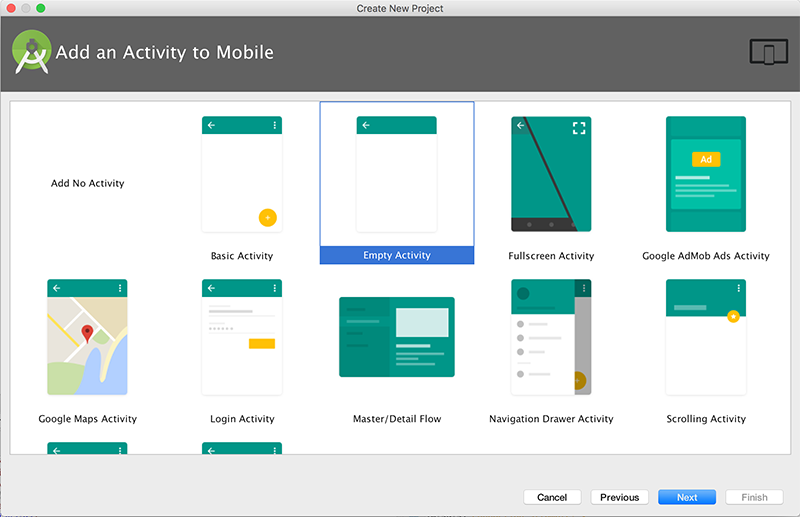
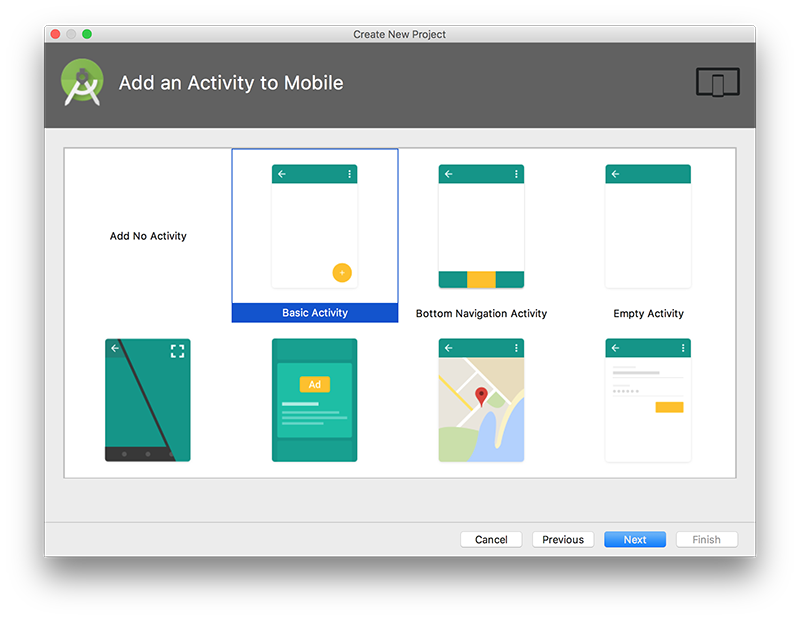
MB Updates to Lab 01 for Android Studio 3.0

diff --git a/topic01-overview-and-tools/book-a-lab-01/index.html b/topic01-overview-and-tools/book-a-lab-01/index.html
@@ -181,7 +181,7 @@ body
       
       <div  class="ui tab segment lab" data-tab="Lab-01">
         <h1>Objectives</h1>
-<p>Here we discuss how to install and set up effective tools for Android application development. These include the Android Studio IDE  + an emulator. We&#39;ll also create a simple Android App <b>(HelloWorld)</b>, and be able to manage it within the Android Studio environment. It&#39;s pretty basic, but it will give you some idea of how to use some of the most common &#39;widgets&#39; available and also implement some basic event handling - which will all come in useful over the course of the module.</p>
+<p>Here we discuss how to install and set up effective tools for Android application development. These include the Android Studio IDE  + an emulator. We&#39;ll also create a simple Android App (HelloWorld), and be able to manage it within the Android Studio environment.</p>
 
       </div>
      
@@ -223,6 +223,10 @@ body
 <p><img src="img/new04.png" alt="Figure 5: Change default settings to HelloWorldActivity in Customize the Activity screen"></p>
 <p>After you press &quot;Finish&quot;, you should now have something similar to the following:</p>
 <p><img src="img/new05.png" alt="Figure 6: Project open in Layout View"></p>
+<p>NOTE : if your project fails to build correctly, you may have a Gradle error like below</p>
+<p><img src="img/error1.png" alt="Figure 6.1: Gradle Build Error in Project"></p>
+<p>To fix this, you need to open your <b>Module</b> (NOT Project) build.gradle file and change the build version from 26.1.0 to 26.0.2, as below</p>
+<p><img src="img/error2.png" alt="Figure 6.2: FIX for Gradle Build Error in Project"></p>
 <p>Next, as an exercise, select File-&gt;Close Project, to close the project so we can import it again.</p>
 <p>If no other Projects are open you will be displayed with</p>
 <p><img src="img/new06.png" alt="Figure 7: Open Existing Project"></p>
@@ -254,29 +258,32 @@ body
 <p><img src="img/lab01.png" alt="Figure 1: Completed App running in Emulator"></p>
 <p>If you&#39;ve deleted your HelloWorld Project, launch Android Studio (if it&#39;s not already open) and create a new Android Project called <b>HelloWorld</b> similar to what you did in Step 02.</p>
 <p>If you haven&#39;t deleted the project, you can just continue on.</p>
-<p>Name your package &#39;ie.wit&#39; (like you did before). Choose an Empty Activity again and rename as before. It&#39;s recommended you select <b>Android 5.0</b> as the launch target platform (but any target will suffice for this particular lab). It&#39;s also probably a good idea to run the App at this stage, so you can set up your Virtual Device (if you haven&#39;t done so already).</p>
+<p>Name your package &#39;ie.wit&#39; (like you did before). Choose a <b>Basic</b> Activity and rename as before. It&#39;s recommended you select <b>Android 6.0</b> as the launch target platform (but any target will suffice for this particular lab). It&#39;s also probably a good idea to run the App at this stage, so you can set up your Virtual Device (if you haven&#39;t done so already).</p>
 <p>Edit your &quot;strings.xml&quot; file (in your res folder) and add the following &quot;resources&quot; - be careful if you have created an app which contains a &#39;menu&#39; folder, this also includes associated resources, so don&#39;t overwrite those resources, just add our ones at the end.</p>
 <pre><code>    &lt;string name=&quot;window_text&quot;&gt;Press the button below to receive a friendly greeting from Android.&lt;/string&gt;
     &lt;string name=&quot;button_label&quot;&gt;Show Greeting&lt;/string&gt;
     &lt;string name=&quot;greeting_text&quot;&gt;Hello from Android!&lt;/string&gt;</code></pre>
-<p>Your completed strings.xml (without menus) should look like this</p>
+<p>Your completed strings.xml (with menu resources) should look like this</p>
 <pre><code>&lt;resources&gt;
     &lt;string name=&quot;app_name&quot;&gt;HelloWorld&lt;/string&gt;
+    &lt;string name=&quot;action_settings&quot;&gt;Settings&lt;/string&gt;
+
     &lt;string name=&quot;window_text&quot;&gt;Press the button below to receive a friendly greeting from Android.&lt;/string&gt;
     &lt;string name=&quot;button_label&quot;&gt;Show Greeting&lt;/string&gt;
-    &lt;string name=&quot;greeting_text&quot;&gt;Hello from Android!&lt;/string&gt;
-&lt;/resources&gt;</code></pre>
+    &lt;string name=&quot;greeting_text&quot;&gt;Hello from Android!&lt;/string&gt;</code></pre>
 <p>If you choose &quot;open editor&quot; you can see the graphical representation of the String resources you have set up (and edit them here if you need to).</p>
 <p><img src="img/lab02.png" alt="Figure 1: String resources in Translations Editor"></p>
-<p>Now, edit your <b>&quot;activity_hello_world.xml&quot;</b> in your <u><i><strong>layout</strong></i></u> folder and replace your <b>TextView</b> with the following - make sure your in &#39;Text&#39; view and not &#39;Design&#39; view window (so you can see the xml).</p>
+<p>Now, edit your &quot;content_hello_world.xml&quot; <b><u>NOT</u></b> your &quot;activity_hello_world.xml&quot; in your <u><i><strong>layout</strong></i></u> folder and replace your <b>TextView</b> with the following - make sure your in &#39;Text&#39; view and not &#39;Design&#39; view window (so you can see the xml).</p>
 <pre><code>&lt;TextView
         android:id=&quot;@+id/textView1&quot;
-        android:gravity=&quot;center&quot;
         android:layout_width=&quot;wrap_content&quot;
         android:layout_height=&quot;wrap_content&quot;
-        android:layout_marginTop=&quot;20dp&quot;
+        android:layout_marginTop=&quot;80dp&quot;
+        android:gravity=&quot;center&quot;
         android:text=&quot;@string/window_text&quot;
-        android:textAppearance=&quot;?android:attr/textAppearanceMedium&quot; /&gt;
+        android:textAppearance=&quot;?android:attr/textAppearanceMedium&quot;
+        app:layout_constraintStart_toStartOf=&quot;parent&quot;
+        app:layout_constraintTop_toTopOf=&quot;parent&quot; /&gt;
 
     &lt;Button
         android:id=&quot;@+id/greetingButton&quot;
@@ -284,25 +291,35 @@ body
         android:layout_height=&quot;wrap_content&quot;
         android:layout_alignParentBottom=&quot;true&quot;
         android:layout_centerHorizontal=&quot;true&quot;
-        android:layout_marginBottom=&quot;59dp&quot;
+        android:layout_marginBottom=&quot;170dp&quot;
         android:onClick=&quot;showGreeting&quot;
-        android:text=&quot;@string/button_label&quot; /&gt;</code></pre>
+        android:text=&quot;@string/button_label&quot;
+        app:layout_constraintBottom_toBottomOf=&quot;parent&quot;
+        app:layout_constraintEnd_toEndOf=&quot;parent&quot;
+        app:layout_constraintStart_toStartOf=&quot;parent&quot; /&gt;</code></pre>
 <p>This will give you the following layout (once you select &#39;Design View&#39; again):</p>
 <p><img src="img/lab03.png" alt="Figure 3: Updated Activity Layout with TextView and Button widgets"></p>
+<p>Note how the widgets are &#39;anchored&#39; to the layout border - this ensures that our button and textview display correctly on the layout at runtime.</p>
+<p><img src="img/anchored.png" alt="Figure 4: Anchored TextView and Button widgets"></p>
 <p>Once again, it&#39;s worth running the app at this point to confirm everything is displayed the way we want it. If you click the button, your app will probably crash - we don&#39;t have our <b>showGreeting()</b> method implemented yet.</p>
 <p>So, the last thing we need to do is add in our event handling code so that a short message is displayed when the user presses the &#39;Show Greeting&#39; button.</p>
-<p>Firstly, open up the <strong>HelloWorldActivity.java</strong> source file and add the following method</p>
+<p>Firstly, open up the <strong>HelloWorldActivity.java</strong> source file and add the following method <b>BEFORE</b> the last closing brace</p>
 <pre><code>public void showGreeting(View v) {
         String greetingText = getString(R.string.greeting_text);
         Toast.makeText(this, greetingText, Toast.LENGTH_LONG).show();
     }</code></pre>
 <p>You&#39;ll get a few compiler errors due to missing imports, so try and fix those.</p>
-<p>Note that we have no need for some kind of Listener interface (ala swing development) - our event handling is taken care of via the <strong><em>onClick</em></strong> attribute in our xml layout, here&#39;s what your completed <strong>HelloWorldActivity</strong> class should look like.</p>
+<p>Note that we have no need for some kind of Listener interface (ala swing development) - our event handling is taken care of via the <strong><em>onClick</em></strong> attribute in our xml layout, here&#39;s what your completed <strong>HelloWorldActivity</strong> class should look like, including Floating Action Button and Menu support.</p>
 <pre><code>package ie.wit.helloworld;
 
 import android.os.Bundle;
+import android.support.design.widget.FloatingActionButton;
+import android.support.design.widget.Snackbar;
 import android.support.v7.app.AppCompatActivity;
+import android.support.v7.widget.Toolbar;
 import android.view.View;
+import android.view.Menu;
+import android.view.MenuItem;
 import android.widget.Toast;
 
 public class HelloWorldActivity extends AppCompatActivity {
@@ -311,15 +328,49 @@ public class HelloWorldActivity extends AppCompatActivity {
     protected void onCreate(Bundle savedInstanceState) {
         super.onCreate(savedInstanceState);
         setContentView(R.layout.activity_hello_world);
+        Toolbar toolbar = (Toolbar) findViewById(R.id.toolbar);
+        setSupportActionBar(toolbar);
+
+        FloatingActionButton fab = (FloatingActionButton) findViewById(R.id.fab);
+        fab.setOnClickListener(new View.OnClickListener() {
+            @Override
+            public void onClick(View view) {
+                Snackbar.make(view, &quot;Replace with your own action&quot;, Snackbar.LENGTH_LONG)
+                        .setAction(&quot;Action&quot;, null).show();
+            }
+        });
+    }
+
+    @Override
+    public boolean onCreateOptionsMenu(Menu menu) {
+        // Inflate the menu; this adds items to the action bar if it is present.
+        getMenuInflater().inflate(R.menu.menu_hello_world, menu);
+        return true;
+    }
+
+    @Override
+    public boolean onOptionsItemSelected(MenuItem item) {
+        // Handle action bar item clicks here. The action bar will
+        // automatically handle clicks on the Home/Up button, so long
+        // as you specify a parent activity in AndroidManifest.xml.
+        int id = item.getItemId();
+
+        //noinspection SimplifiableIfStatement
+        if (id == R.id.action_settings) {
+            return true;
+        }
+
+        return super.onOptionsItemSelected(item);
     }
 
     public void showGreeting(View v) {
         String greetingText = getString(R.string.greeting_text);
         Toast.makeText(this, greetingText, Toast.LENGTH_LONG).show();
     }
+
 }</code></pre>
 <p>So when you run your app again you should see something like this when you click the &#39;Show Greeting&#39; button.</p>
-<p><img src="img/lab04.png" alt="Figure 4: Completed App running in Emulator with Button clicked"></p>
+<p><img src="img/lab04.png" alt="Figure 5: Completed App running in Emulator with Button clicked"></p>
 <p>We will investigate this code more closely in the lectures.</p>
 
       </div>

diff --git a/labwall.html b/labwall.html
@@ -184,7 +184,7 @@ figcaption
 
   <div class="center aligned content">
     <div class="description">
-      <p>Here we discuss how to install and set up effective tools for Android application development. These include the Android Studio IDE  + an emulator. We&#39;ll also create a simple Android App <b>(HelloWorld)</b>, and be able to manage it within the Android Studio environment. It&#39;s pretty basic, but it will give you some idea of how to use some of the most common &#39;widgets&#39; available and also implement some basic event handling - which will all come in useful over the course of the module.</p>
+      <p>Here we discuss how to install and set up effective tools for Android application development. These include the Android Studio IDE  + an emulator. We&#39;ll also create a simple Android App (HelloWorld), and be able to manage it within the Android Studio environment.</p>
 
     </div>
   </div>

diff --git a/topic01-overview-and-tools/index.html b/topic01-overview-and-tools/index.html
@@ -345,7 +345,7 @@ figcaption
 
   <div class="center aligned content">
     <div class="description">
-      <p>Here we discuss how to install and set up effective tools for Android application development. These include the Android Studio IDE  + an emulator. We&#39;ll also create a simple Android App <b>(HelloWorld)</b>, and be able to manage it within the Android Studio environment. It&#39;s pretty basic, but it will give you some idea of how to use some of the most common &#39;widgets&#39; available and also implement some basic event handling - which will all come in useful over the course of the module.</p>
+      <p>Here we discuss how to install and set up effective tools for Android application development. These include the Android Studio IDE  + an emulator. We&#39;ll also create a simple Android App (HelloWorld), and be able to manage it within the Android Studio environment.</p>
 
     </div>
   </div>

diff --git a/topic01-overview-and-tools/indexmoodle.html b/topic01-overview-and-tools/indexmoodle.html
@@ -134,7 +134,7 @@ figcaption
 
   <div class="center aligned content">
     <div class="description">
-      <p>Here we discuss how to install and set up effective tools for Android application development. These include the Android Studio IDE  + an emulator. We&#39;ll also create a simple Android App <b>(HelloWorld)</b>, and be able to manage it within the Android Studio environment. It&#39;s pretty basic, but it will give you some idea of how to use some of the most common &#39;widgets&#39; available and also implement some basic event handling - which will all come in useful over the course of the module.</p>
+      <p>Here we discuss how to install and set up effective tools for Android application development. These include the Android Studio IDE  + an emulator. We&#39;ll also create a simple Android App (HelloWorld), and be able to manage it within the Android Studio environment.</p>
 
     </div>
   </div>
